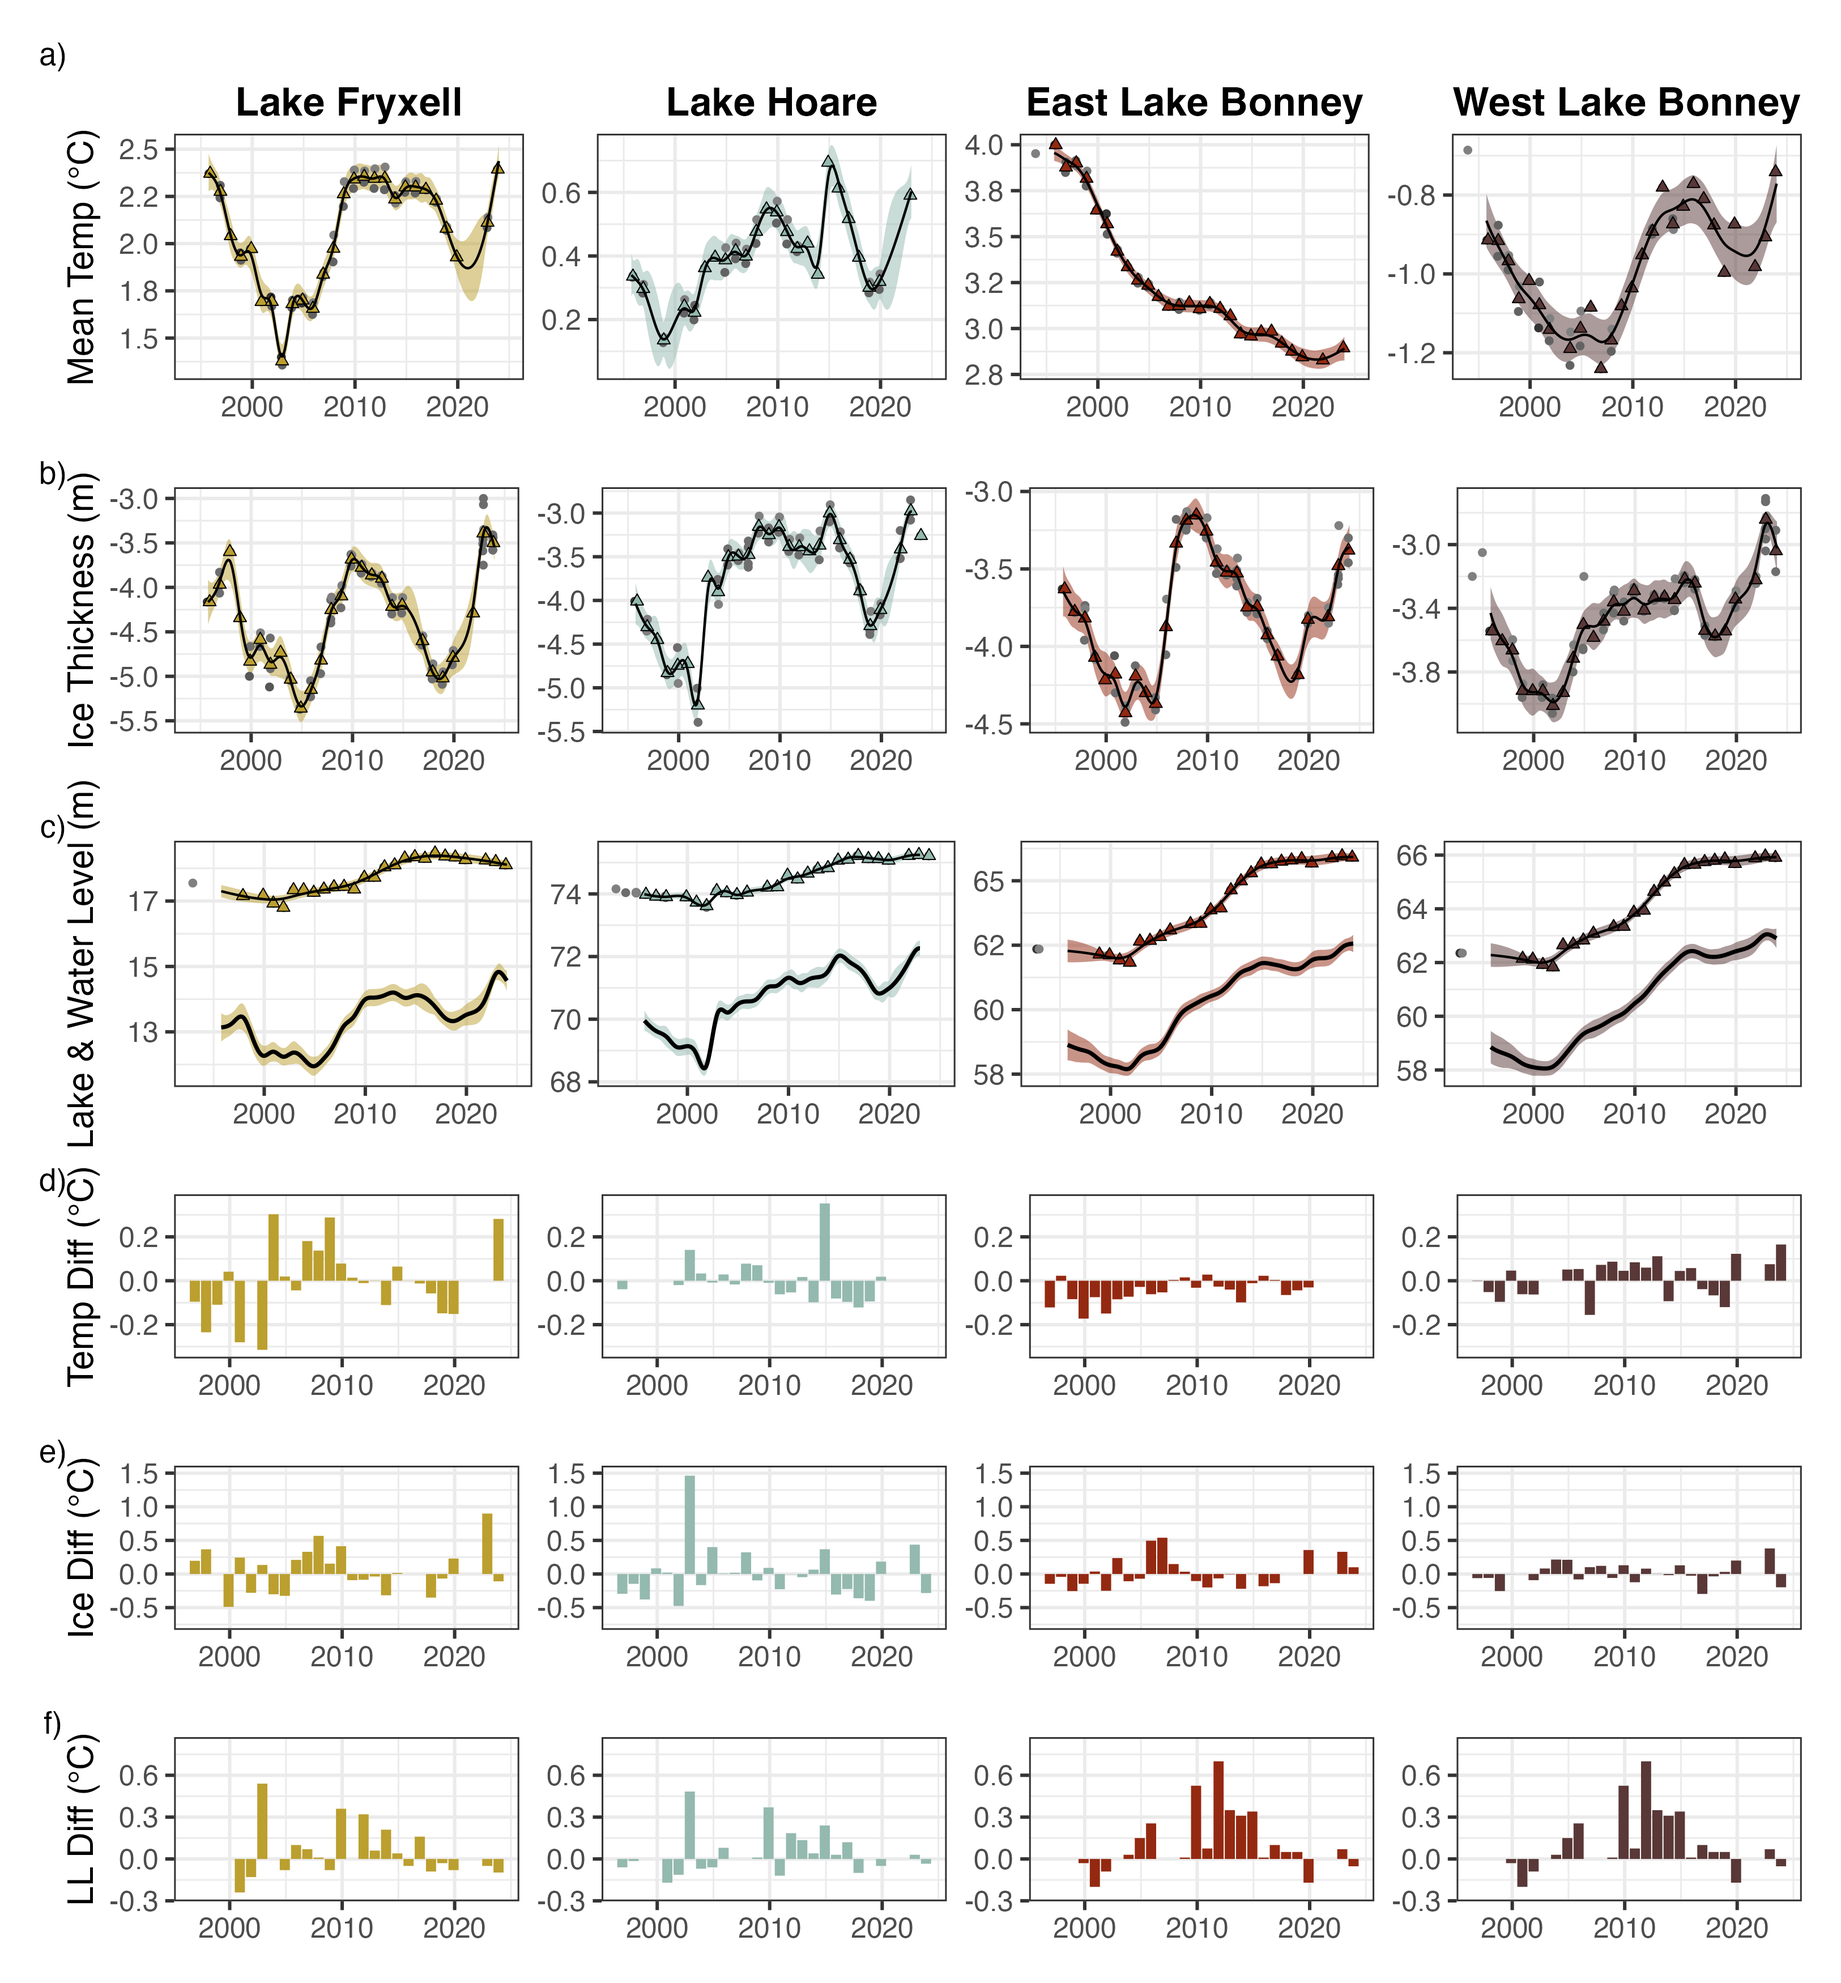
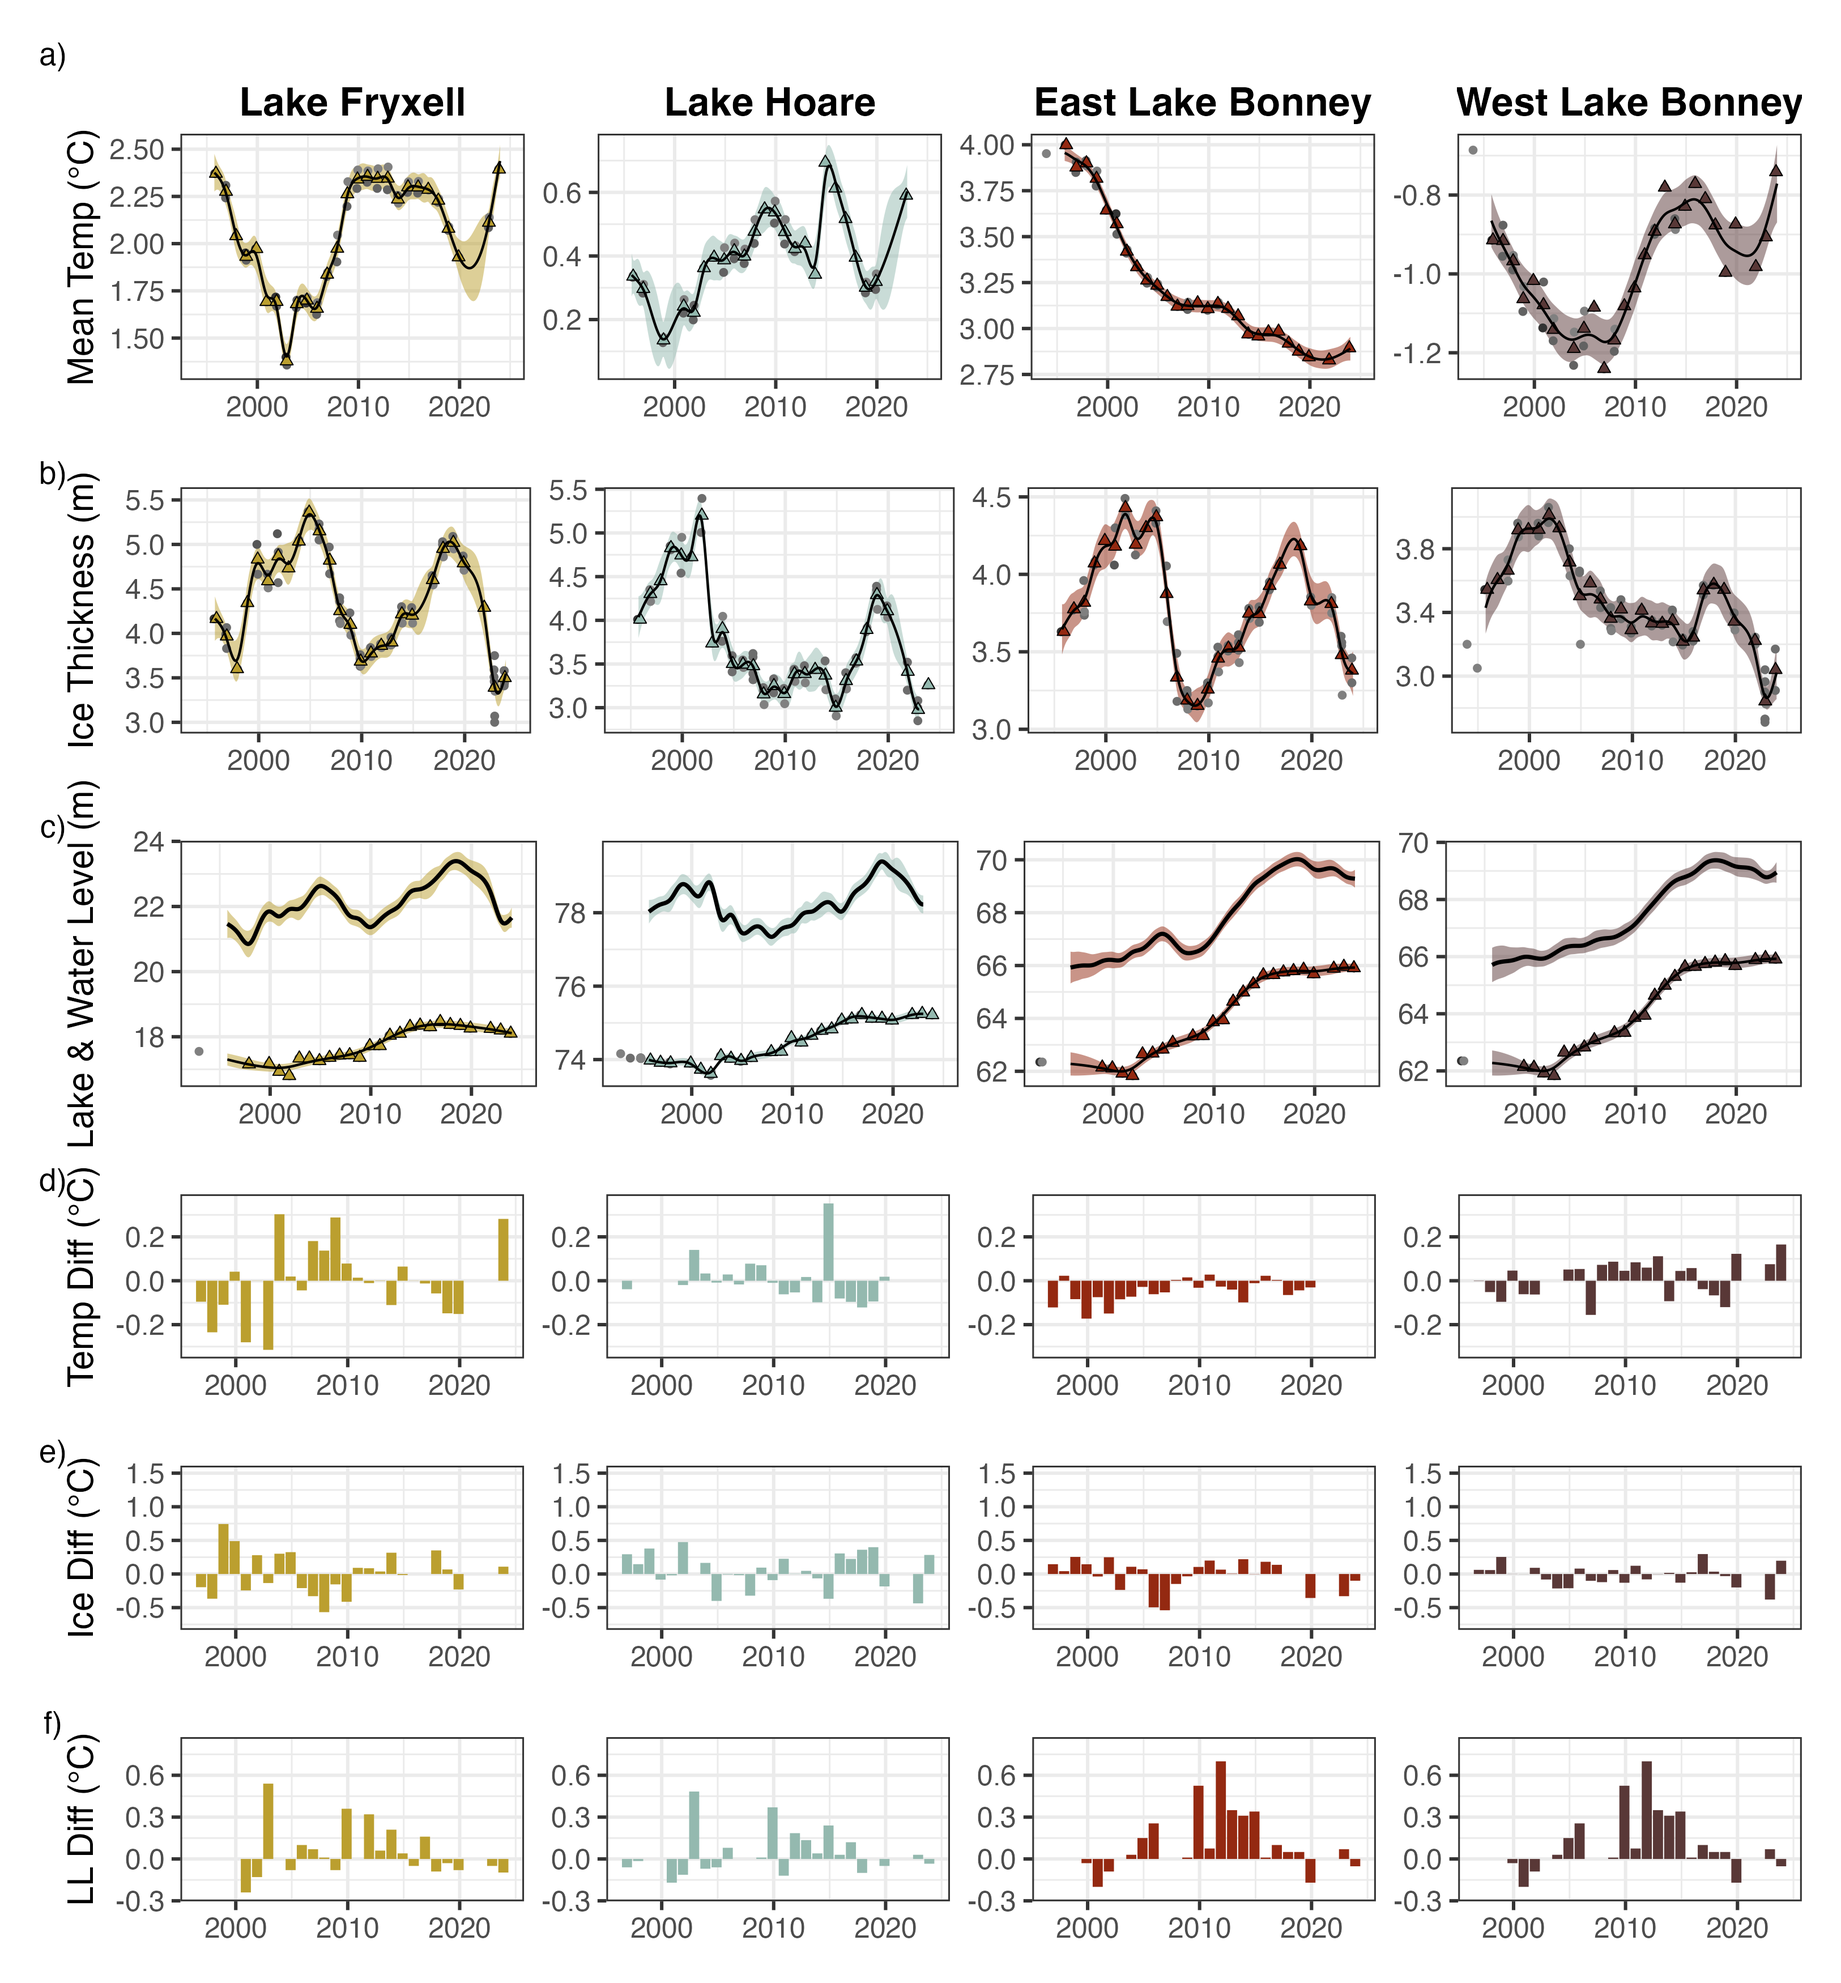
changed ice thickness from negative to positive

diff --git a/README.md b/README.md
@@ -39,6 +39,7 @@ All "00\_" .R scripts are helper scripts that download raw data from EDI
     -   Use 2019 data from 2020-2023
     -   Where transfer table doesn't go deep enough, interpolate with down last value
 -   Add specific heat capacity using `SW_SpcHeat` function
+    -  Rewritten in R from a MATLAB implementation {Source: https://web.mit.edu/seawater/}
 -   Add density using `sw_dens` function
 -   Add freezing point by using lookup table 'datain/papers/Bodnar_1993_FreezingPoint_Lookup.csv'
     -   Create 3rd degree polynomial from lookup table
